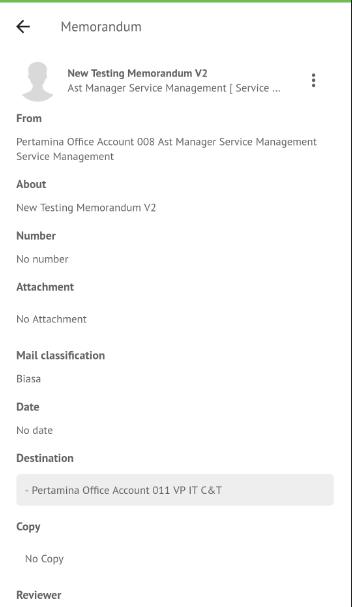
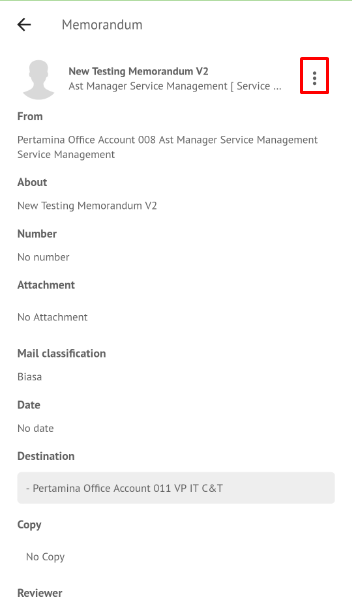
Commit Update

diff --git a/MM_Kembalikan_Kekonseptor.md b/MM_Kembalikan_Kekonseptor.md
@@ -69,9 +69,9 @@ Langkah-langkah untuk mengembalikan memorandum ke konseptor adalah sebagai berik
 ![gambar](Memorandum/MM_IOS/02MM-80.png)
 
 2. Pilih memorandum yang akan ditindak lanjuti kemudian pilih icon **Option** dan pilih **Revise to Previous**
-
-![gambar](Memorandum/MM_IOS/02MM-81.png)
-![gambar](Memorandum/MM_IOS/02MM-43.png)
+   ![gambar](Memorandum/MM_IOS/03MM-81.png)
+   ![gambar](Memorandum/MM_IOS/02MM-81.png)
+   ![gambar](Memorandum/MM_IOS/02MM-43.png)
 
 3. Isikan komentar jika diperlukan kemudian klik **Send** untuk menyimpan perubahan. Memorandum yang sudah di kirim akan tersimpan di menu **Sent Item – Memorandum**
 
